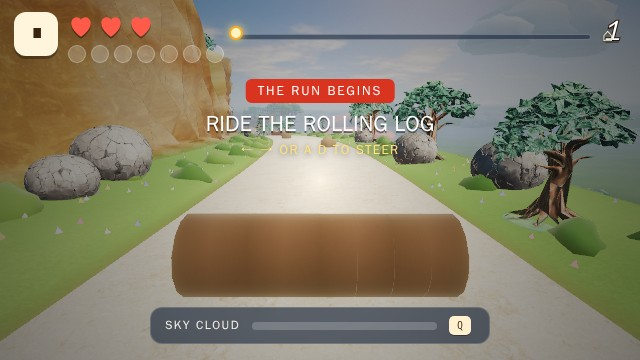
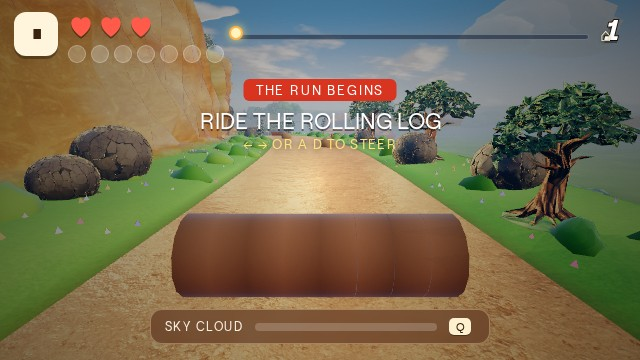
evidence(cloud-runner-port): retake the final card, title, gameplay-early and key-run frames on the 4.7.1 lane build (capture g25p3-r3, software WebGL2) and rebuild the index card images; phase-3 checklist (GU47 phase 3)

diff --git a/evidence/game-upgrades-47/cloud-runner-port/checklist.md b/evidence/game-upgrades-47/cloud-runner-port/checklist.md
@@ -26,3 +26,11 @@ Status per acceptance line: `code` (implemented, verifiable statically or by uni
 | CD-20 | +6 draws at s=60; edge cells stddev >= 30 | partial (cairns, cord poles, hollow moss and flowers, 1 draw); arches blocked (WP-36); pixels phase 2 |
 | CD-21 | values within the row at s=60/520/1100/1420/1700 | code (earlier culling, budget.json); measurements phase 2 |
 | CD-22 | same_game false >= 0.8 every pair; every category >= 7, lighting/environment/atmosphere >= 8; portrait saturation >= 0.18 | code (art direction + audit record); judge and portrait phase 2 |
+
+## Phase 3 (4.7.1)
+
+- Default views: storm-washed look kept on title and gameplay (phase-2 blind panel win); `?look=original` unchanged.
+- CD-22 rubric: `look-judgement.json`, minimum 4 (shadows), 7+ bar not met; open for 4.7.2 (see lane report). modeling_assets 5.5 and material_quality 5.5 blocked on WP-36 Meshy assets.
+- CD-22 sibling: ninja-runner-port 0.828 pass, cross-hop 0.932 pass, serpentine-sky-run-port 0.746 fail (`distinct/`).
+- CD-13, CD-06, CD-17 birds, CD-20 arches: still blocked on WP-36 (no borrowed or invented assets).
+- Final screens: retaken on the 4.7.1 lane build (capture g25p3-r3, software WebGL2).
